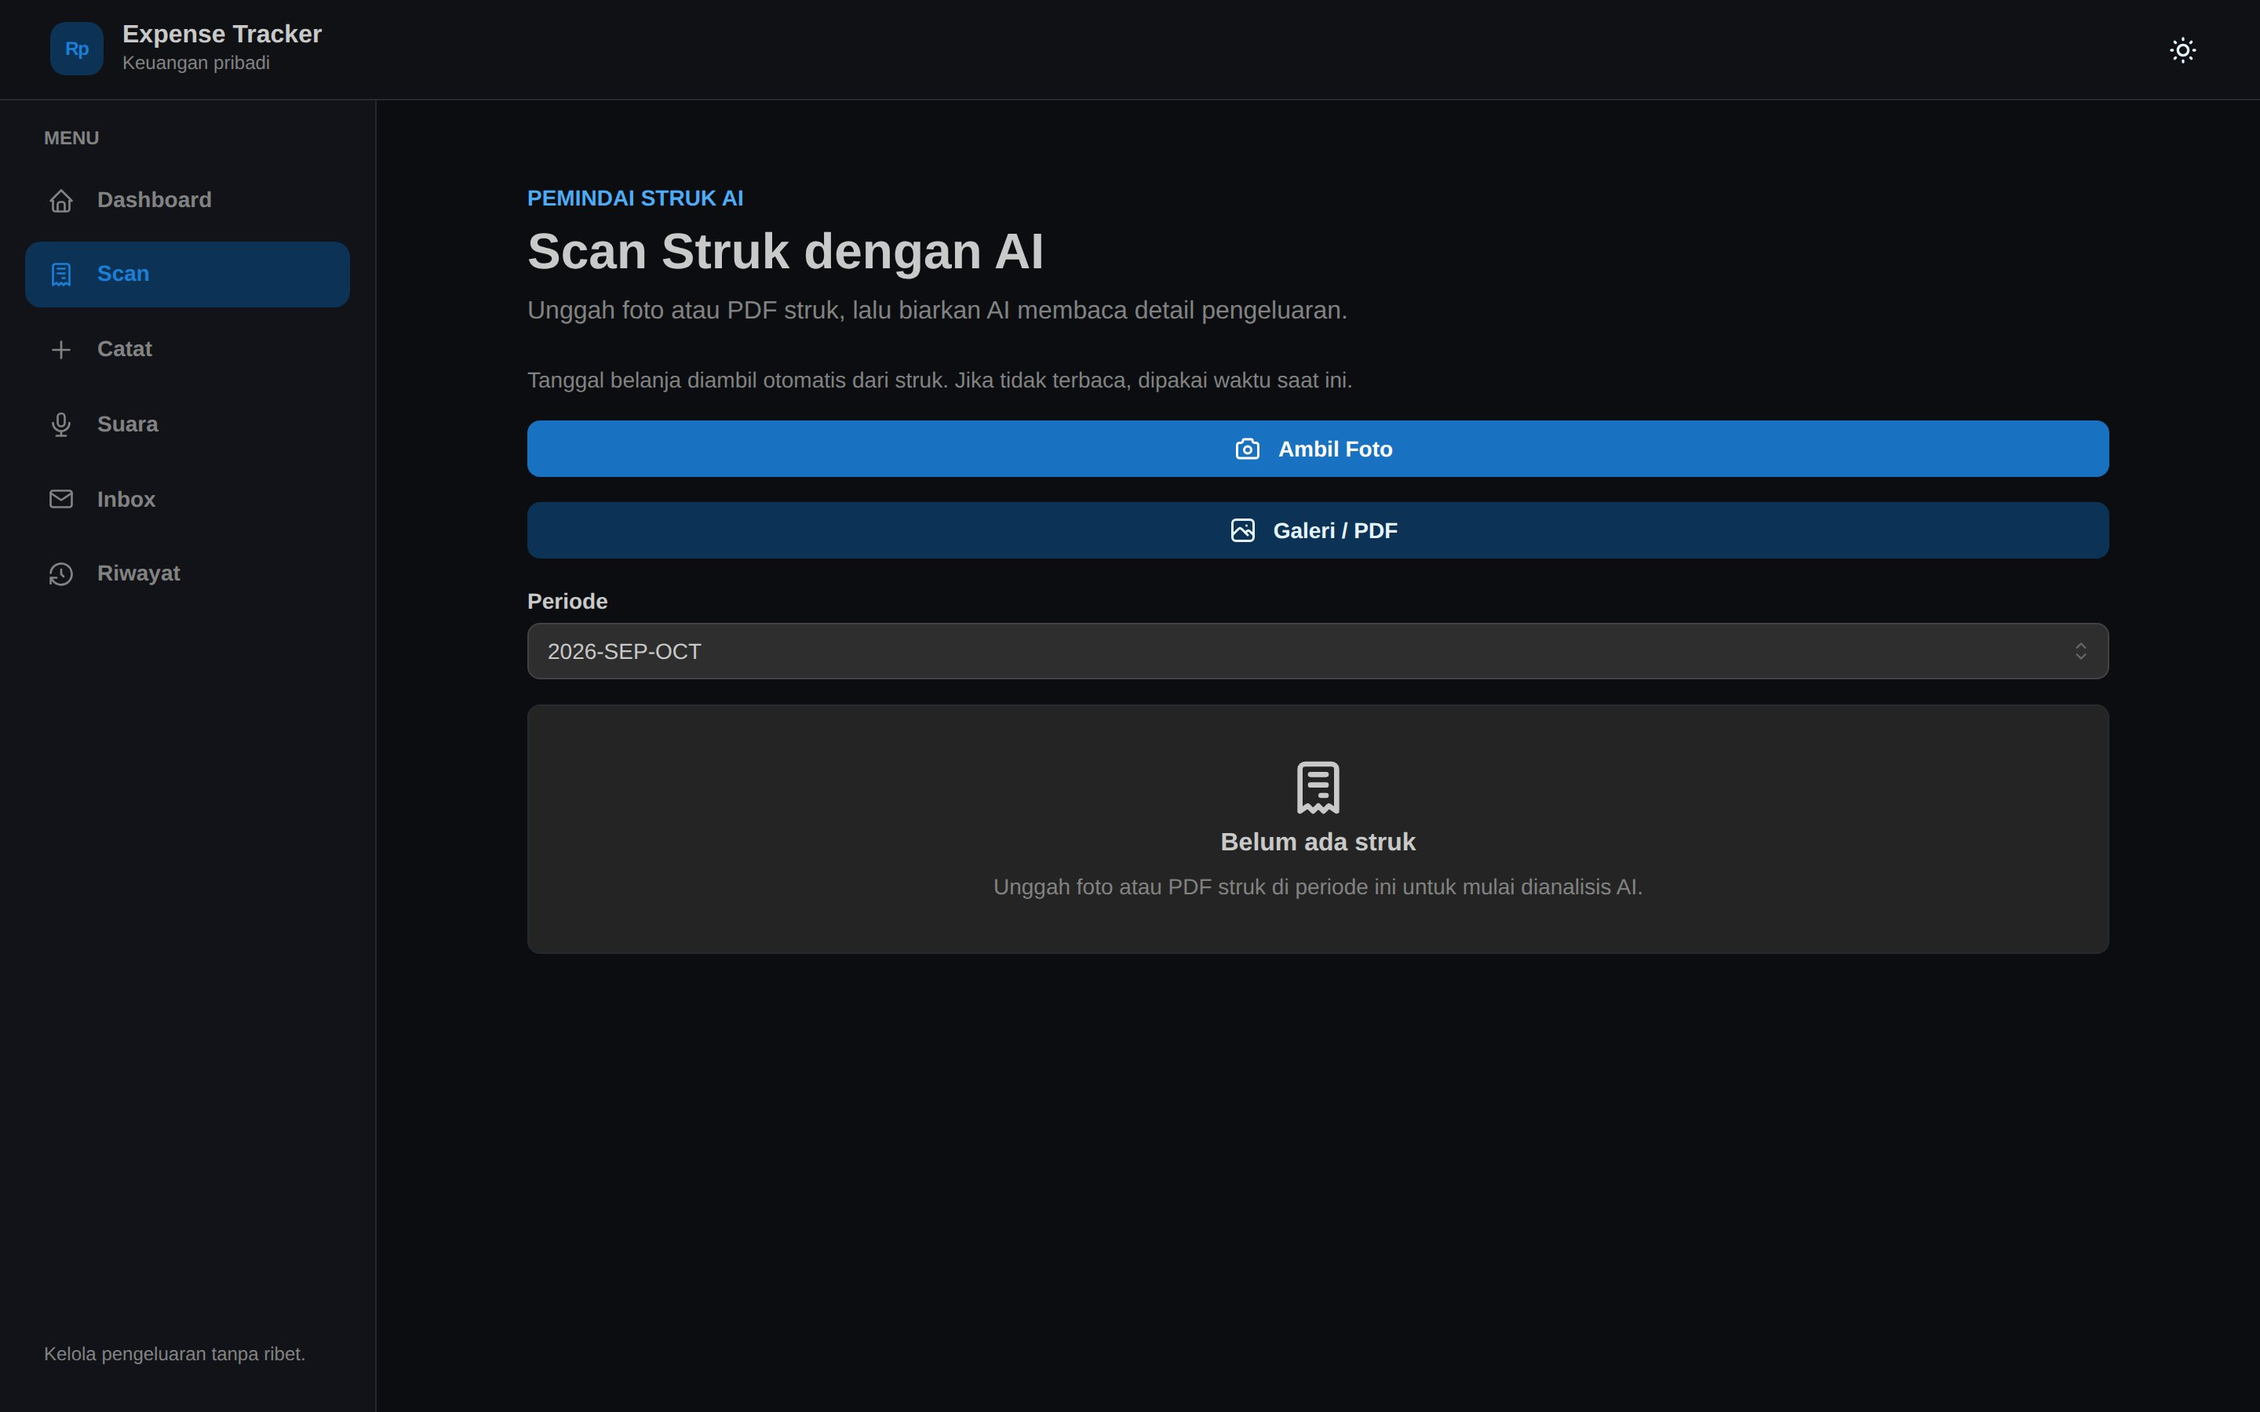
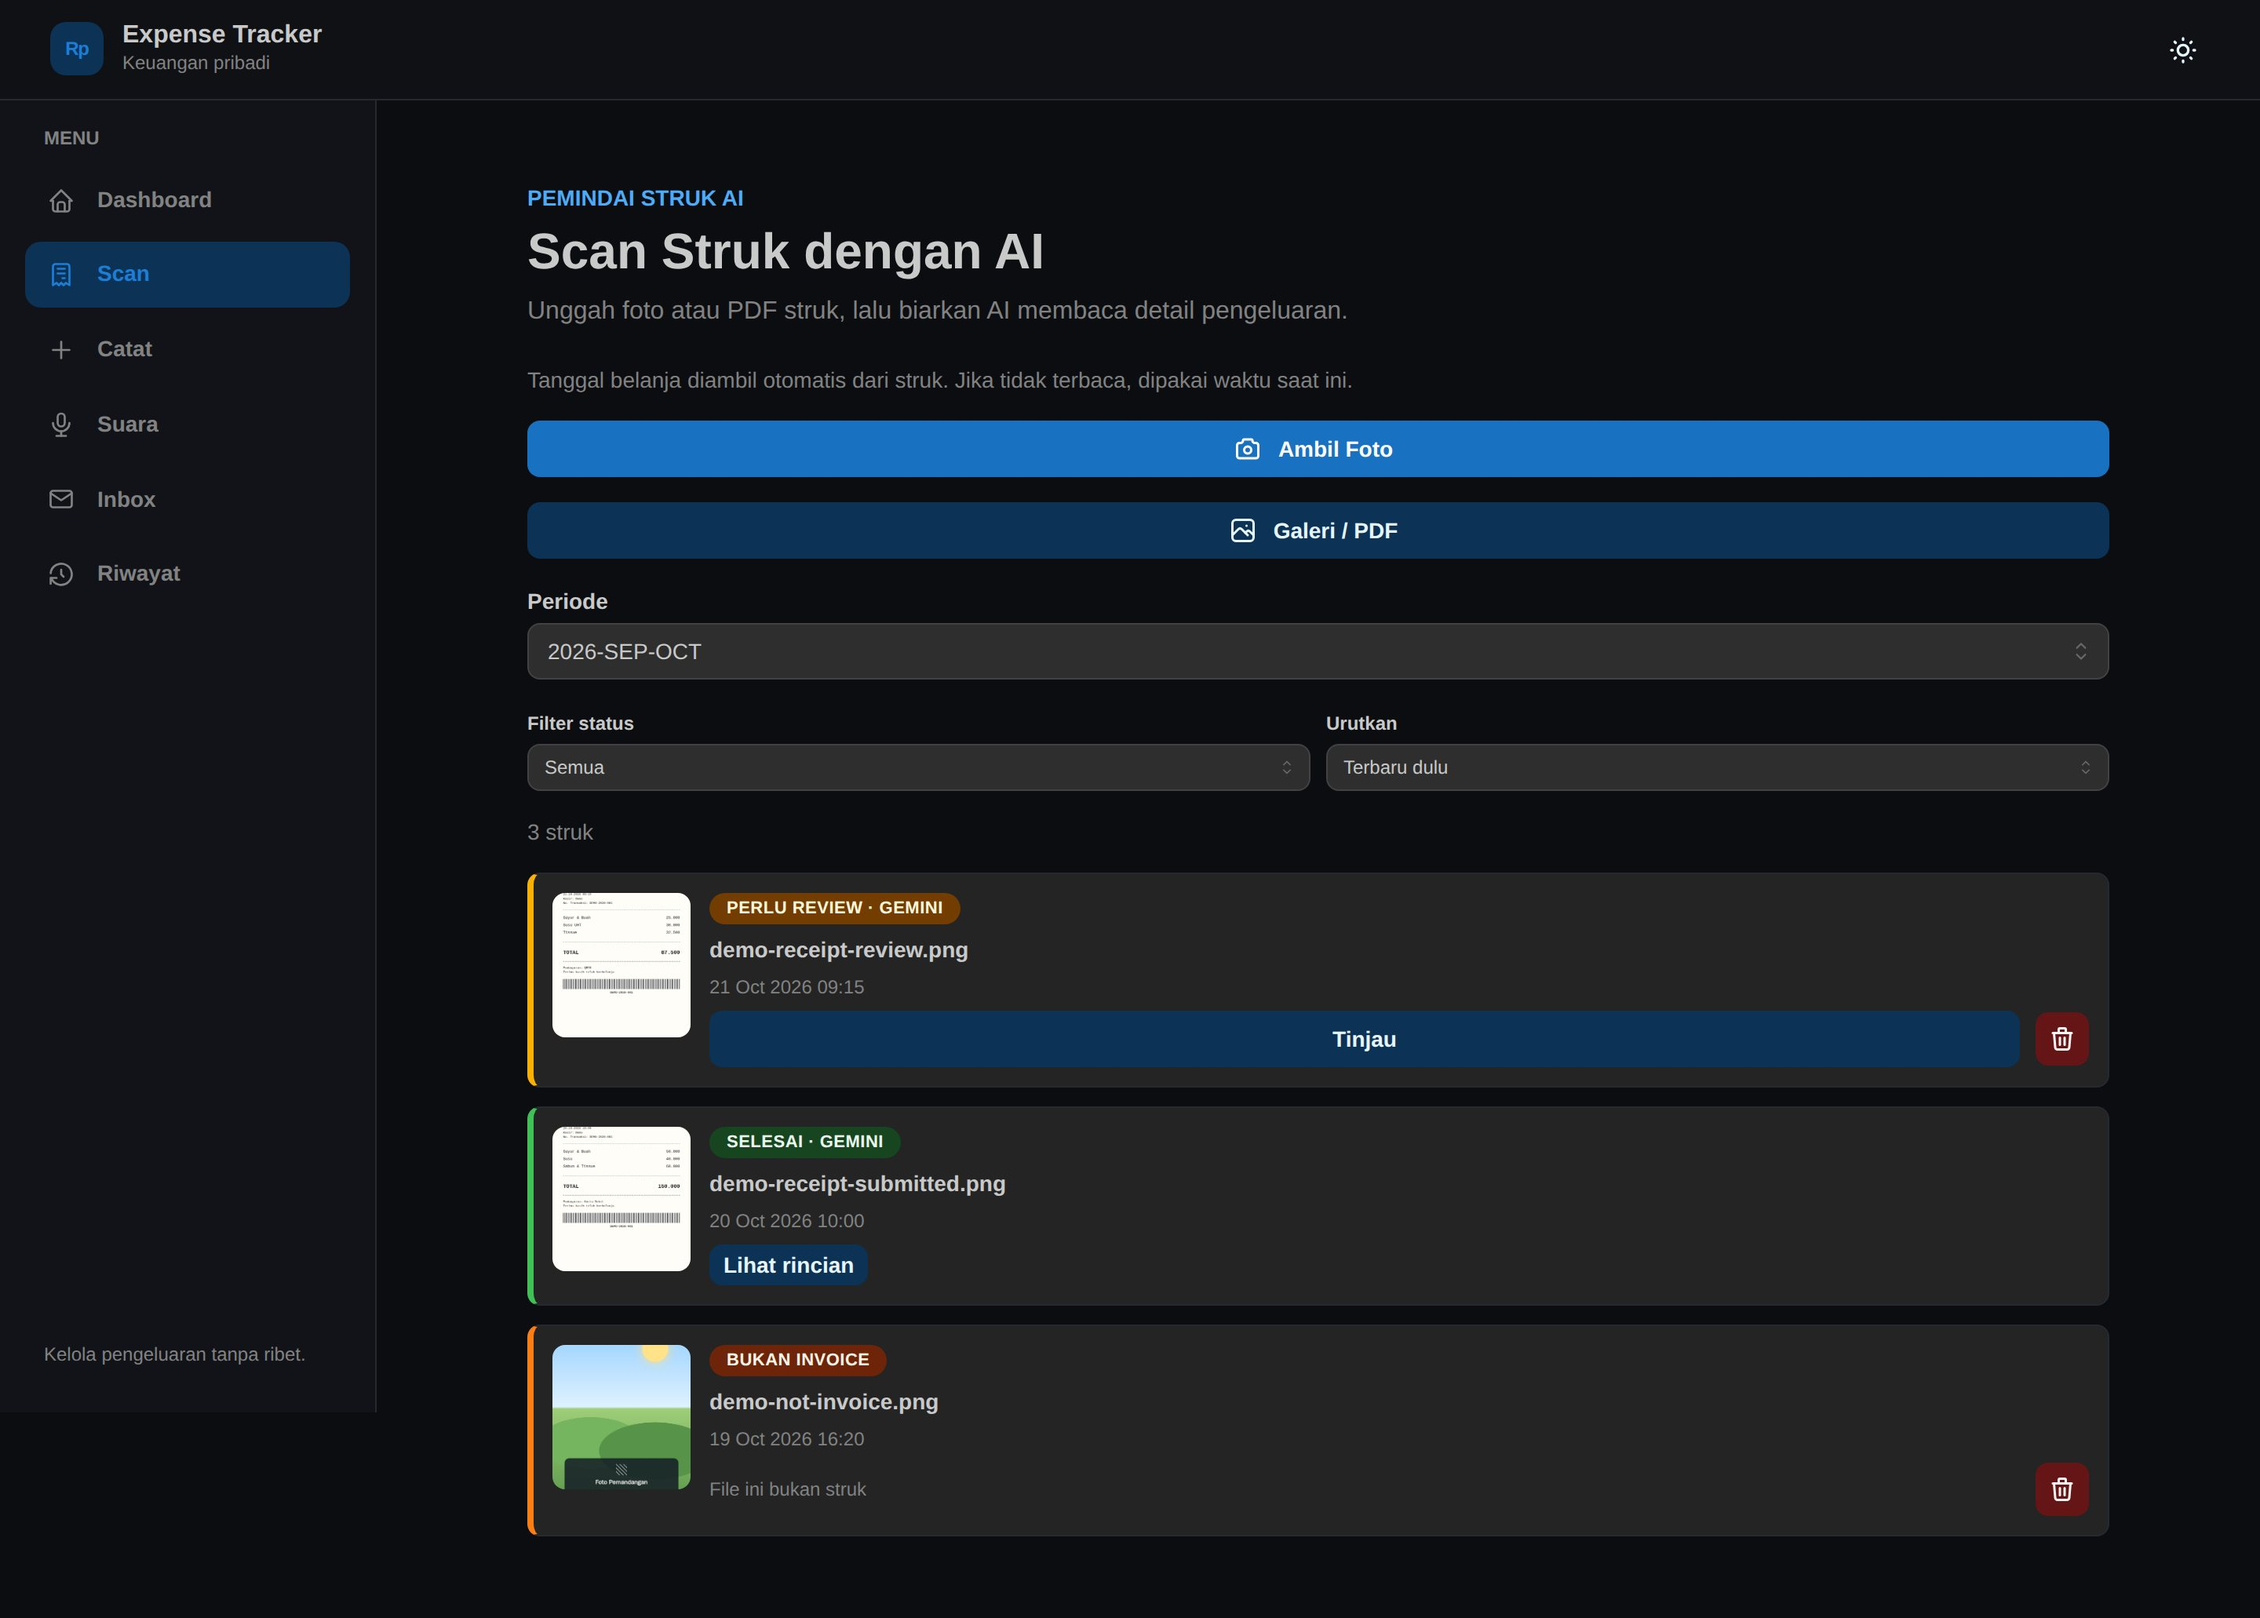
feat(demo): sample inbox dan invoice, screenshot desktop/mobile

diff --git a/scripts/seed_demo_data.py b/scripts/seed_demo_data.py
@@ -3,16 +3,21 @@
 
 import argparse
 import datetime
+import json
 import os
 import random
+import shutil
 import subprocess
 import sys
 import uuid
+from pathlib import Path
 
 MONTHS = ['JAN', 'FEB', 'MAR', 'APR', 'MAY', 'JUN', 'JUL', 'AUG', 'SEP', 'OCT', 'NOV', 'DEC']
+PROJECT_ROOT = Path(__file__).resolve().parent.parent
+ASSETS_DIR = Path(__file__).resolve().parent / 'demo-assets'
+UPLOAD_DIR = PROJECT_ROOT / 'uploads-demo'
 
 BUDGETS = [
-    # id, name, alert_threshold, description, categories
     (1, 'Household', 300_000, 'Kebutuhan rumah tangga', [
         (1, 'Utilities', 'Listrik, air, internet'),
         (2, 'Cleaning', 'Sabun, deterjen, kebersihan'),
@@ -54,6 +59,11 @@ ITEMS = {
 }
 
 TOPUP_DESCRIPTIONS = ['Alokasi bulanan', 'Top up budget', 'Tambahan saldo']
+INVOICE_ASSETS = {
+    'inv-demo-review': ('demo-receipt-review.png', 'demo_receipt_review.png'),
+    'inv-demo-submitted': ('demo-receipt-submitted.png', 'demo_receipt_submitted.png'),
+    'inv-demo-not-invoice': ('demo-not-invoice.png', 'demo_not_invoice.png'),
+}
 
 
 def period_of(d: datetime.date) -> str:
@@ -76,6 +86,35 @@ def period_start(d: datetime.date) -> str:
 
 def esc(value: str) -> str:
     return value.replace('\\', '\\\\').replace("'", "''")
+
+
+def copy_demo_assets() -> None:
+    UPLOAD_DIR.mkdir(parents=True, exist_ok=True)
+    for source_name, _target_name in INVOICE_ASSETS.values():
+        source = ASSETS_DIR / source_name
+        if not source.exists():
+            raise SystemExit(f'Asset demo tidak ditemukan: {source}')
+        shutil.copyfile(source, UPLOAD_DIR / source_name)
+
+
+def invoice_analysis(store: str, date_time: str, items: list[tuple[str, int, str, str]]) -> str:
+    payload = {
+        'storeName': store,
+        'total': sum(item[1] for item in items),
+        'dateTime': date_time,
+        'currency': 'IDR',
+        'originalTotal': None,
+        'items': [
+            {
+                'name': name,
+                'amount': amount,
+                'suggestedBudget': budget,
+                'suggestedCategory': category,
+            }
+            for name, amount, budget, category in items
+        ],
+    }
+    return json.dumps(payload, ensure_ascii=False)
 
 
 def build_sql(days: int, seed: int) -> str:
@@ -101,8 +140,24 @@ def build_sql(days: int, seed: int) -> str:
             minute = rng.choice([0, 10, 15, 30, 45])
             date_time = f'{d:%Y-%m-%d} {hour:02d}:{minute:02d}:00'
             expenses.append((uuid.uuid4().hex, period_of(d), period_start(d), date_time,
-                             budget[0], category_id, name, amount, date_time))
+                             budget[0], category_id, name, amount, date_time, None))
             total_expense[budget[0]] += amount
+
+    submitted_date = today - datetime.timedelta(days=1)
+    submitted_time = f'{submitted_date:%Y-%m-%d} 10:00:00'
+    fixed_expenses = [
+        ('exp-demo-submitted-groceries', submitted_date, 2, 4, 'Demo Fresh Market', 90_000,
+         'Sayur, buah, dan susu', 'inv-demo-submitted'),
+        ('exp-demo-submitted-household', submitted_date, 1, 2, 'Demo Fresh Market', 60_000,
+         'Sabun dan tissue rumah', 'inv-demo-submitted'),
+        ('exp-demo-email-imported', today - datetime.timedelta(days=2), 1, 3, 'Demo Grocery', 125_000,
+         'Transaksi kartu kredit', None),
+    ]
+    for expense_id, date_value, budget_id, category_id, name, amount, description, invoice_id in fixed_expenses:
+        date_time = f'{date_value:%Y-%m-%d} 10:00:00' if invoice_id else f'{date_value:%Y-%m-%d} 14:30:00'
+        expenses.append((expense_id, period_of(date_value), period_start(date_value), date_time,
+                         budget_id, category_id, name, amount, date_time, invoice_id))
+        total_expense[budget_id] += amount
 
     topup_total = {b[0]: 0 for b in BUDGETS}
     for topup in topups:
@@ -130,9 +185,9 @@ def build_sql(days: int, seed: int) -> str:
                  + ', '.join(budget_rows) + ';')
 
     category_rows = []
-    for _budget_id, _name, _threshold, _desc, categories in BUDGETS:
+    for budget_id, _name, _threshold, _desc, categories in BUDGETS:
         for category_id, name, description in categories:
-            category_rows.append(f"({category_id}, {_budget_id}, '{esc(name)}', '{esc(description)}', 1)")
+            category_rows.append(f"({category_id}, {budget_id}, '{esc(name)}', '{esc(description)}', 1)")
     parts.append('INSERT INTO categories (id, budget_id, name, description, is_active) VALUES '
                  + ', '.join(category_rows) + ';')
 
@@ -140,8 +195,73 @@ def build_sql(days: int, seed: int) -> str:
         parts.append('INSERT INTO top_ups (id, date_time, budget_id, amount, description) VALUES '
                      + ', '.join(f"('{t[0]}', '{t[1]}', {t[2]}, {t[3]}, '{esc(t[4])}')" for t in topups) + ';')
 
-    parts.append('INSERT INTO expenses (id, period, period_start, date_time, budget_id, category_id, name, amount, description, deleted, created_at) VALUES '
-                 + ',\n'.join(f"('{e[0]}', '{e[1]}', '{e[2]}', '{e[3]}', {e[4]}, {e[5]}, '{esc(e[6])}', {e[7]}, 'Demo data', 0, '{e[8]}')" for e in expenses) + ';')
+    review_date = f'{today:%Y-%m-%d} 09:15:00'
+    submitted_invoice_date = f'{submitted_date:%Y-%m-%d} 10:00:00'
+    not_invoice_date = f'{today - datetime.timedelta(days=2):%Y-%m-%d} 16:20:00'
+    review_analysis = invoice_analysis('Demo Mart', review_date, [
+        ('Sayur & Buah', 25_000, 'Groceries', 'Fresh Food'),
+        ('Susu', 30_000, 'Groceries', 'Beverages'),
+        ('Tissue', 32_500, 'Household', 'Home Supplies'),
+    ])
+    submitted_analysis = invoice_analysis('Demo Fresh Market', submitted_invoice_date, [
+        ('Sayur & Buah', 50_000, 'Groceries', 'Fresh Food'),
+        ('Susu', 40_000, 'Groceries', 'Beverages'),
+        ('Sabun & Tissue', 60_000, 'Household', 'Cleaning'),
+    ])
+    invoice_rows = [
+        f"('inv-demo-review', '{period_of(today)}', '{period_start(today)}', 'demo-receipt-review.png', 0, "
+        f"'TO_REVIEW', '{esc(review_analysis)}', NULL, 1, '{review_date}', 'demo-receipt-review.png', 0, 0, 'GEMINI')",
+        f"('inv-demo-submitted', '{period_of(submitted_date)}', '{period_start(submitted_date)}', "
+        f"'demo-receipt-submitted.png', 0, 'SUBMITTED', '{esc(submitted_analysis)}', NULL, 1, "
+        f"'{submitted_invoice_date}', 'demo-receipt-submitted.png', 0, 0, 'GEMINI')",
+        f"('inv-demo-not-invoice', '{period_of(today - datetime.timedelta(days=2))}', "
+        f"'{period_start(today - datetime.timedelta(days=2))}', 'demo-not-invoice.png', 0, "
+        f"'NOT_INVOICE', NULL, 'Bukan struk invoice', 1, '{not_invoice_date}', 'demo-not-invoice.png', 0, 0, NULL)",
+    ]
+    parts.append('INSERT INTO invoices (id, period, period_start, photo_path, deleted, status, analysis_json, '
+                 'error_message, scan_flow, created_at, original_name, retry_count, retry_max, ai_provider) VALUES '
+                 + ',\n'.join(invoice_rows) + ';')
+
+    parts.append('INSERT INTO expenses (id, period, period_start, date_time, budget_id, category_id, name, amount, description, deleted, created_at, invoice_id) VALUES '
+                 + ',\n'.join(f"('{e[0]}', '{e[1]}', '{e[2]}', '{e[3]}', {e[4]}, {e[5]}, '{esc(e[6])}', {e[7]}, 'Demo data', 0, '{e[8]}', {('NULL' if e[9] is None else repr(e[9]))})" for e in expenses) + ';')
+
+    email_rows = [
+        ('email-demo-qris', '<demo-qris@demo-bank.example>', 'notifikasi@demo-bank.example',
+         'Pembayaran QRIS Berhasil', f'{today:%Y-%m-%d} 08:10:00', f'{today:%Y-%m-%d} 08:00:00',
+         'Demo Coffee', 35_000, 'QRIS - DEMO COFFEE', 'Entertainment', 'Dining Out', 'REGEX',
+         'PENDING_REVIEW', None, None),
+        ('email-demo-cc', '<demo-cc@demo-bank.example>', 'notifikasi@demo-bank.example',
+         'Transaksi Kartu Kredit', f'{today - datetime.timedelta(days=2):%Y-%m-%d} 14:31:00',
+         f'{today - datetime.timedelta(days=2):%Y-%m-%d} 14:30:00', 'Demo Grocery', 125_000,
+         'Pembayaran kartu kredit', 'Household', 'Home Supplies', 'REGEX', 'IMPORTED', None,
+         'exp-demo-email-imported'),
+        ('email-demo-promo', '<demo-promo@demo-bank.example>', 'promo@demo-bank.example',
+         'Promo spesial bulan ini', f'{today - datetime.timedelta(days=3):%Y-%m-%d} 09:00:00', None,
+         'Demo Bank', None, 'Promo cashback dan diskon', None, None, 'REGEX', 'DISCARDED',
+         'Bukan transaksi pengeluaran', None),
+        ('email-demo-failed', '<demo-failed@demo-bank.example>', 'notifikasi@demo-bank.example',
+         'Notifikasi transaksi tidak dikenali', f'{today - datetime.timedelta(days=4):%Y-%m-%d} 11:30:00',
+         None, None, None, 'Email tidak dapat dibaca', None, None, 'AI', 'FAILED',
+         'Format email tidak dikenali', None),
+        ('email-demo-ereceipt', '<demo-ereceipt@demo-mart.example>', 'do-not-reply@demo-mart.example',
+         'E-Receipt Demo Mart', f'{submitted_date:%Y-%m-%d} 11:00:00', f'{submitted_date:%Y-%m-%d} 10:30:00',
+         'Demo Mart', 87_500, 'Struk digital dikirim ke Scan', 'Groceries', 'Fresh Food', 'SCAN',
+         'SCANNED', None, None),
+    ]
+    values = []
+    for row in email_rows:
+        (email_id, message_id, sender, subject, received_at, transaction_at, merchant, amount,
+         description, suggested_budget, suggested_category, parse_method, status, error_message, expense_id) = row
+        def q(value):
+            return 'NULL' if value is None else "'" + esc(str(value)) + "'"
+        values.append(
+            f"('{email_id}', '{message_id}', '{sender}', '{esc(subject)}', '{received_at}', "
+            f"{q(transaction_at)}, {q(merchant)}, {('NULL' if amount is None else amount)}, {q(description)}, "
+            f"{q(suggested_budget)}, {q(suggested_category)}, '{parse_method}', '{status}', {q(error_message)}, "
+            f"{q(expense_id)}, '{received_at}')")
+    parts.append('INSERT INTO email_imports (id, message_id, sender, subject, received_at, transaction_at, '
+                 'merchant, amount, description, suggested_budget, suggested_category, parse_method, status, '
+                 'error_message, expense_id, created_at) VALUES ' + ',\n'.join(values) + ';')
     return '\n'.join(parts)
 
 
@@ -169,7 +289,6 @@ def main() -> None:
     if not args.db_password:
         print('ERROR: DB password kosong (env DEMO_DB_PASSWORD/DB_PASSWORD atau --db-password).', file=sys.stderr)
         sys.exit(1)
-
     if not args.db.endswith('_demo') and not args.allow_non_demo:
         print('ERROR: script hanya untuk database berakhiran _demo.', file=sys.stderr)
         sys.exit(1)
@@ -178,8 +297,9 @@ def main() -> None:
     if args.dry_run:
         print(sql)
         return
+    copy_demo_assets()
     run_sql(args.container, args.db_user, args.db_password, args.db, sql)
-    print(f'==> Demo data seeded: {len(BUDGETS)} budgets, expenses {args.days} hari.')
+    print(f'==> Demo data seeded: {len(BUDGETS)} budgets, {len(INVOICE_ASSETS)} sample invoices, 5 sample emails.')
 
 
 if __name__ == '__main__':

diff --git a/README.md b/README.md
@@ -14,30 +14,41 @@ Demo bersifat **read-only** (tidak bisa menambah/mengubah data), memakai data du
 
 ## Screenshots
 
+### Desktop
+
+Tampilan desktop memakai sidebar di kiri, konten lebar, dan tabel untuk daftar transaksi. Screenshot Dashboard di bawah ini memakai **long screenshot** agar seluruh kartu budget dan grafik tren terlihat.
+
 <p align="center">
-  <img src="docs/screenshots/dashboard-desktop.jpg" alt="Dashboard" width="100%" />
+  <img src="docs/screenshots/dashboard-desktop.jpg" alt="Dashboard desktop" width="100%" />
 </p>
 
-| Catat | Riwayat |
+| Catat Pengeluaran | Riwayat Pengeluaran |
 |---|---|
-| ![Catat](docs/screenshots/catat-desktop.jpg) | ![Riwayat](docs/screenshots/riwayat-desktop.jpg) |
+| ![Catat desktop](docs/screenshots/catat-desktop.jpg) | ![Riwayat desktop](docs/screenshots/riwayat-desktop.jpg) |
 
-| Scan Struk | Voice Assistant |
+| Scan Struk | Inbox Email |
 |---|---|
-| ![Scan](docs/screenshots/scan-desktop.jpg) | ![Voice](docs/screenshots/voice-desktop.jpg) |
+| ![Scan desktop](docs/screenshots/scan-desktop.jpg) | ![Inbox desktop](docs/screenshots/inbox-desktop.jpg) |
 
-<details>
-<summary><strong>Mobile screenshots</strong></summary>
+| Voice Assistant | Halaman PIN |
+|---|---|
+| ![Voice desktop](docs/screenshots/voice-desktop.jpg) | ![Lock desktop](docs/screenshots/lock-desktop.jpg) |
+
+### Mobile
+
+Tampilan mobile mengganti sidebar menjadi **bottom navigation**, form menjadi satu kolom, dan daftar transaksi berubah menjadi kartu agar tombol aksi tetap terlihat tanpa scroll horizontal.
 
 | Dashboard | Catat | Riwayat |
 |---|---|---|
-| <img src="docs/screenshots/dashboard-mobile.jpg" width="220" /> | <img src="docs/screenshots/catat-mobile.jpg" width="220" /> | <img src="docs/screenshots/riwayat-mobile.jpg" width="220" /> |
+| <img src="docs/screenshots/dashboard-mobile.jpg" width="100%" /> | <img src="docs/screenshots/catat-mobile.jpg" width="100%" /> | <img src="docs/screenshots/riwayat-mobile.jpg" width="100%" /> |
 
-| Scan | Voice | Lock |
+| Scan | Inbox | Voice |
 |---|---|---|
-| <img src="docs/screenshots/scan-mobile.jpg" width="220" /> | <img src="docs/screenshots/voice-mobile.jpg" width="220" /> | <img src="docs/screenshots/lock-mobile.jpg" width="220" /> |
+| <img src="docs/screenshots/scan-mobile.jpg" width="100%" /> | <img src="docs/screenshots/inbox-mobile.jpg" width="100%" /> | <img src="docs/screenshots/voice-mobile.jpg" width="100%" /> |
 
-</details>
+<p align="center">
+  <img src="docs/screenshots/lock-mobile.jpg" alt="PIN mobile" width="45%" />
+</p>
 
 ---
 
